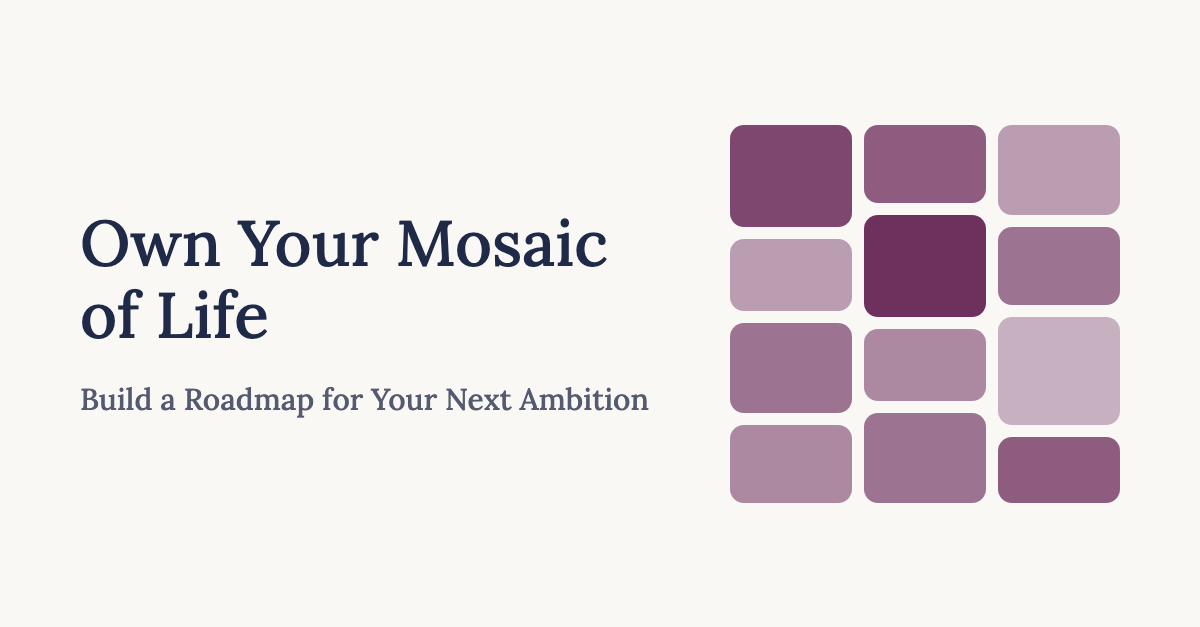
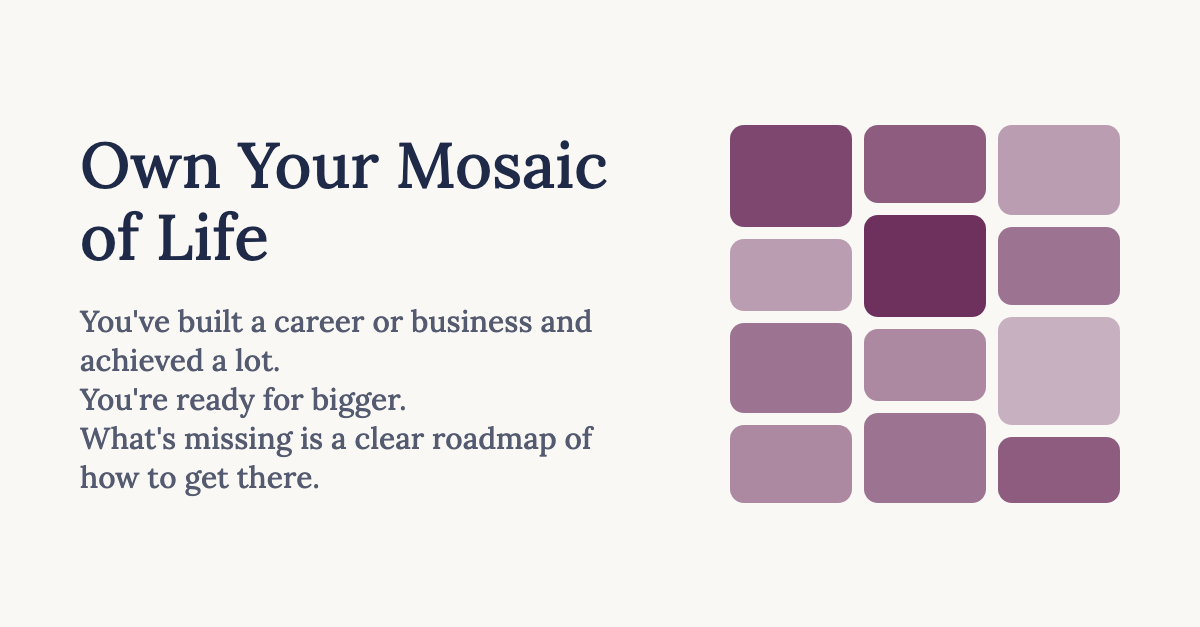
Launch on program.juliakrylova.com: the CNAME file, the site address, published
The build writes dist/CNAME with the domain on every build. The yaml carries site_url, so the head gets canonical, og:url and og:image, and published: true: no noindex, no robots.txt, no TODO or draft tag may remain (the check is green). The link card is redrawn with the title and the three lines under it. Tests follow the published state; README records the launch.

Changed region(s): [[0.0617, 0.4545, 0.555, 0.7879], [0.0617, 0.3333, 0.5242, 0.4242], [0.0617, 0.2121, 0.5242, 0.303]]

diff --git a/README.md b/README.md
@@ -7,8 +7,8 @@ offer page» и её вебинарной презентации «Own Your Mosa
 с её правками (первый экран, цены по новому слайду 09, последний экран).
 Страница статическая, без фреймворков и без скриптов, хостинг GitHub Pages.
 
-Адрес превью: `https://juliak2406.github.io/own-your-mosaic/`
-Боевой адрес: поддомен `program.juliakrylova.com` (подключается при запуске).
+Адрес сайта: `https://program.juliakrylova.com` (с 18 ноября 2026; прежний адрес
+превью `https://juliak2406.github.io/own-your-mosaic/` перекидывает на него).
 
 Весь текст страницы лежит в одном файле: `content/offer.yaml`. Больше ничего
 для правки текста трогать не нужно.
@@ -44,13 +44,15 @@ offer page» и её вебинарной презентации «Own Your Mosa
 
 ### Плашки TODO и draft
 
-Пока страница не запущена, на превью видны две маленькие плашки:
+Пока страница не была запущена (`published: false`), на превью были видны две маленькие
+плашки:
 
-- жёлтая **TODO**: чего-то ещё нет (сейчас таких мест на странице нет);
-- сиреневая **draft**: этот текст или эту группу собрали мы (в основном из ваших
-  слайдов), и она ждёт вашего «да». 16 ноября все пометки сняты, сейчас таких мест
-  на странице нет. Если понадобится снова, Стас ставит пометку `# draft` в файле,
-  и плашка появляется; чтобы заменить текст, просто поправьте его.
+- жёлтая **TODO**: чего-то ещё нет;
+- сиреневая **draft**: этот текст или эту группу собрали мы, и она ждёт вашего «да».
+
+С запуска (`published: true`) плашек нет, и сборка нарочно останавливается, если в файле
+появился TODO или пометка `# draft`: недописанное в интернет не уедет. Если понадобится
+снова работать с черновиками, Стас на время ставит `published: false`.
 
 ### Кнопки: звонок и депозит
 
@@ -81,9 +83,6 @@ The shift, `process`, `package`, `pricing` или `logistics`), `text` это а
 (один или несколько), ниже `name`, `role` и `company`. Чтобы переставить цитату,
 поменяйте `at`; чтобы убрать, удалите её целиком. Новые цитаты вставляются так же,
 вместо этих.
-
-В день запуска обе плашки исчезают. Если к этому моменту где-то остался TODO или
-draft, сборка нарочно останавливается: недописанное в интернет не уедет.
 
 ### Что где лежит в файле
 
@@ -305,19 +304,20 @@ champagne, navy и баклажан (champagne как заливка это ре
 отправка на Apps Script, `verify:form`); её можно вернуть из истории git, если
 понадобится, например для листа ожидания.
 
-### Запуск
+### Запуск (сделан 18 ноября 2026)
 
 1. Кнопка ведёт на Calendly, подключать нечего; подпись в `register.label`.
-2. Поддомен. В Squarespace (DNS домена juliakrylova.com) добавить запись
-   `CNAME, host: program, value: juliak2406.github.io`.
-   В репозитории: Settings → Pages → Custom domain, вписать поддомен, дождаться
-   проверки и включить Enforce HTTPS. В `src/build.mjs` добавить запись файла
-   `CNAME` в `dist/` с этим поддоменом (как `CUSTOM_DOMAIN` в Snapshot), иначе
-   домен слетит после первой же пересборки. В yaml вписать `site_url`, тогда
-   в `<head>` появятся canonical, og:url и og:image.
-3. День запуска: `published: true` в `content/offer.yaml`. Перед этим
-   `npm run check` должен показать ноль TODO и ноль черновиков (пометки `# draft`
-   убрать после «да» Юлии). С TODO или draft сборка с `published: true` падает.
+2. Поддомен `program.juliakrylova.com`: в DNS домена juliakrylova.com (Squarespace)
+   запись `CNAME, host: program, value: juliak2406.github.io`; в репозитории
+   Settings → Pages → Custom domain с включённым Enforce HTTPS. `src/build.mjs`
+   пишет файл `CNAME` с доменом в `dist/` при каждой сборке (`CUSTOM_DOMAIN`), чтобы
+   домен не слетел после пересборки. В yaml задан `site_url`, поэтому в `<head>` есть
+   canonical, og:url и og:image (карточка `assets/og-image.png`, после смены заголовка
+   или строк под ним её перерисовывает `npm run og`).
+3. `published: true` в `content/offer.yaml`: страница индексируется, `robots.txt` не
+   пишется, плашек нет; `npm run check` должен показывать ноль TODO и ноль черновиков,
+   иначе сборка падает. Чтобы снова работать с черновиками, на время поставить
+   `published: false`.
 
 ### Правила
 
